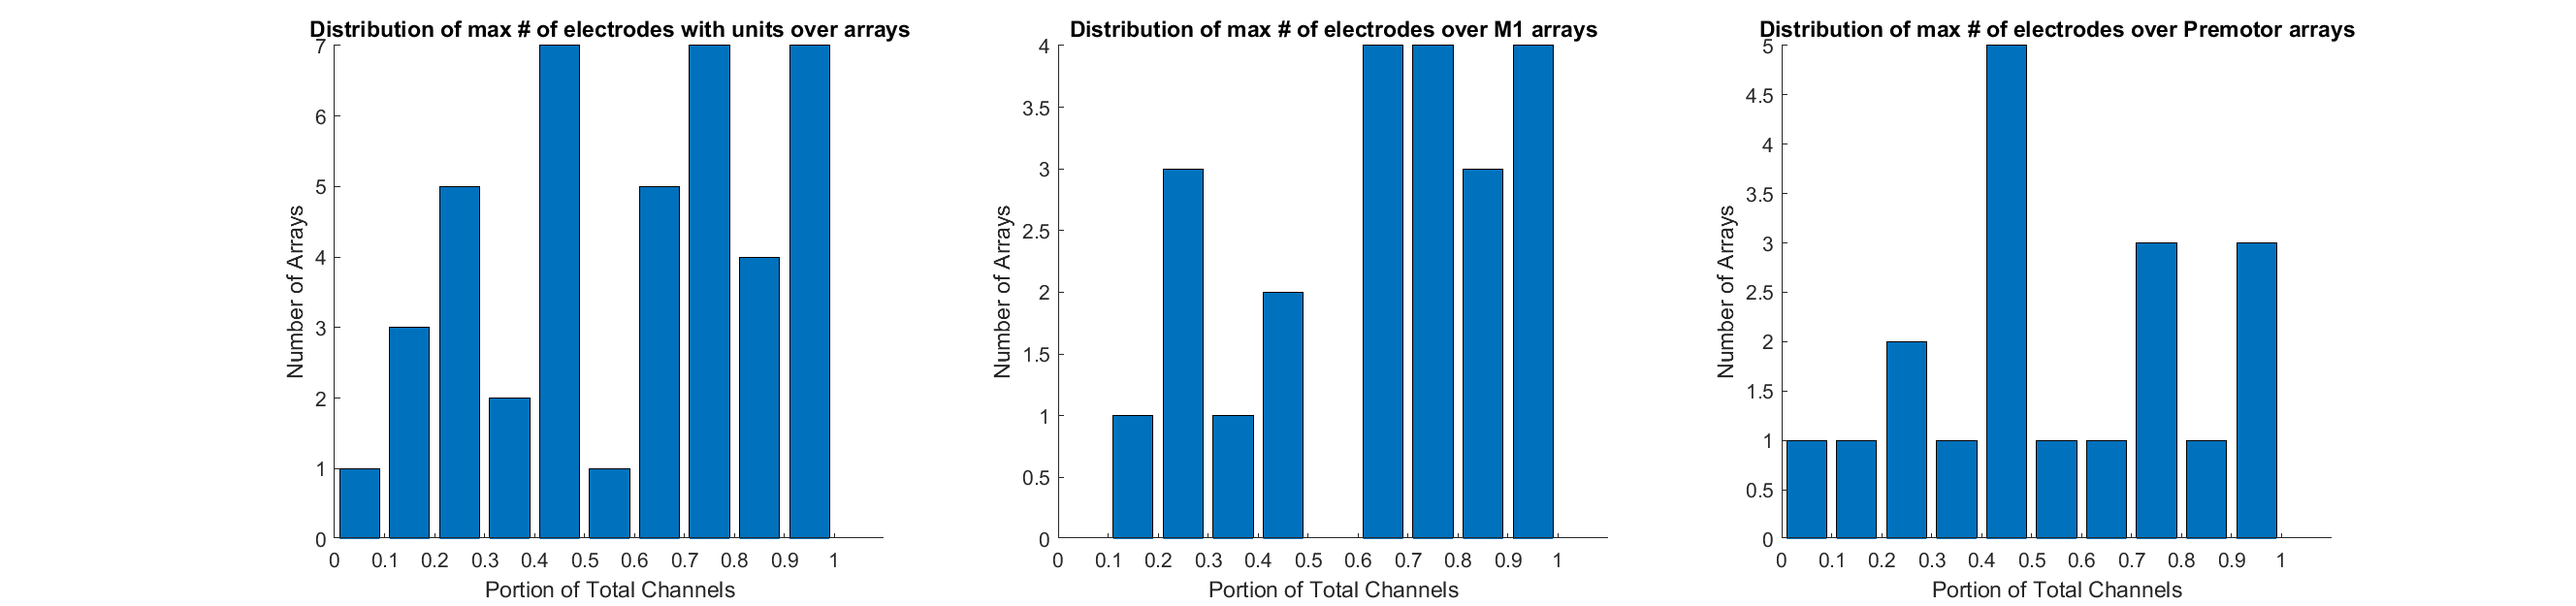
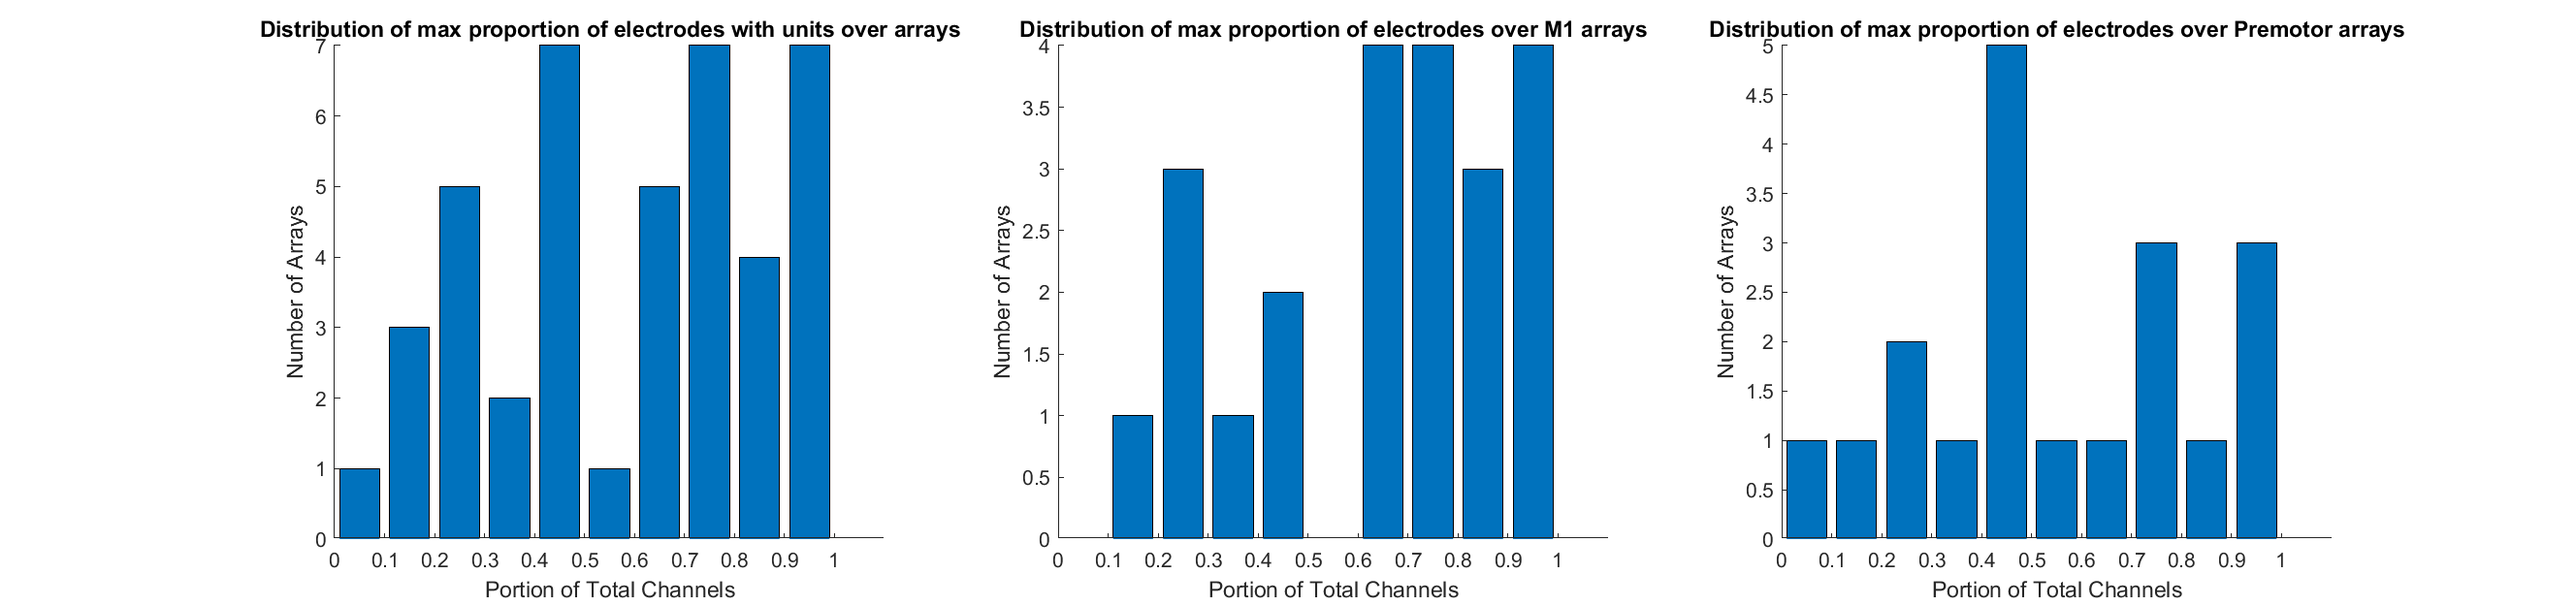
small changes

Changed region(s): [[0.0938, 0.0304, 0.9375, 0.0608]]

diff --git a/code/paper_figures_code/figure_five.m b/code/paper_figures_code/figure_five.m
@@ -18,7 +18,7 @@ xlabel('Portion of Total Channels')
 ylabel('Number of Arrays')
 xticks(0:.1:1)
 xlim([0 1.1])
-title('Distribution of max # of electrodes with units over arrays')
+title('Distribution of max proportion of electrodes with units over arrays')
 box off
 
 clear array_max_good_channels
@@ -38,7 +38,7 @@ xlabel('Portion of Total Channels')
 ylabel('Number of Arrays')
 xticks(0:.1:1)
 xlim([0 1.1])
-title('Distribution of max # of electrodes over M1 arrays')
+title('Distribution of max proportion of electrodes over M1 arrays')
 box off
 
 clear array_max_good_channels
@@ -59,7 +59,7 @@ xlabel('Portion of Total Channels')
 ylabel('Number of Arrays')
 xticks(0:.1:1)
 xlim([0 1.1])
-title('Distribution of max # of electrodes over Premotor arrays')
+title('Distribution of max proportion of electrodes over Premotor arrays')
 box off
 
 clear array_max_good_channels

diff --git a/code/paper_figures_code/figure_three.m b/code/paper_figures_code/figure_three.m
@@ -12,7 +12,7 @@ end
     
 figure('name','Long-term, chronic array recordings','visible','off','color','w'); hold on  
 scatter([array_data.relative_days],implant_order,...
-    (([array_data.num_good_channels_corrected] ./ [array_data.total_num_of_channels])+.01)*300,...
+    (([array_data.num_good_channels_corrected] ./ [array_data.total_num_of_channels])+.01)*75,...
     round([array_data.SNR_all_channels],0),'filled')
 box off
 xlabel('days post implant (days)');
@@ -23,7 +23,7 @@ xticks(0:250:3250)
 ylim([0 max(implant_order)+1])
 colormap(jet);
 colorbar;
-set(gcf,'pos',[0,0,1500,1000])
+set(gcf,'pos',[0,0,750,500])
 set(gca,'TickDir','out')
 
 %% Saving
